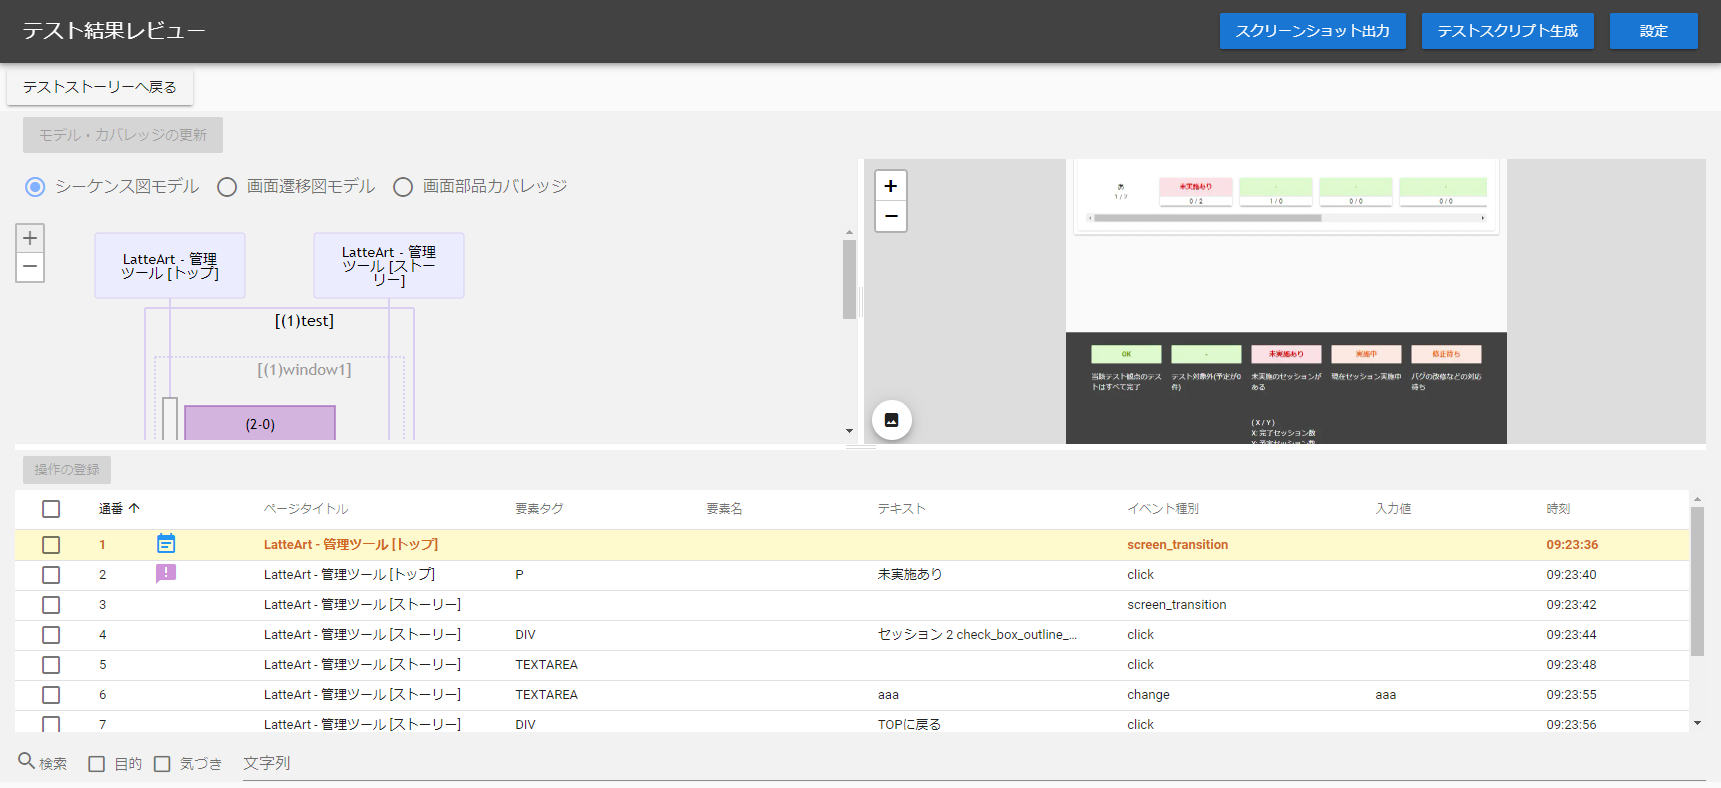
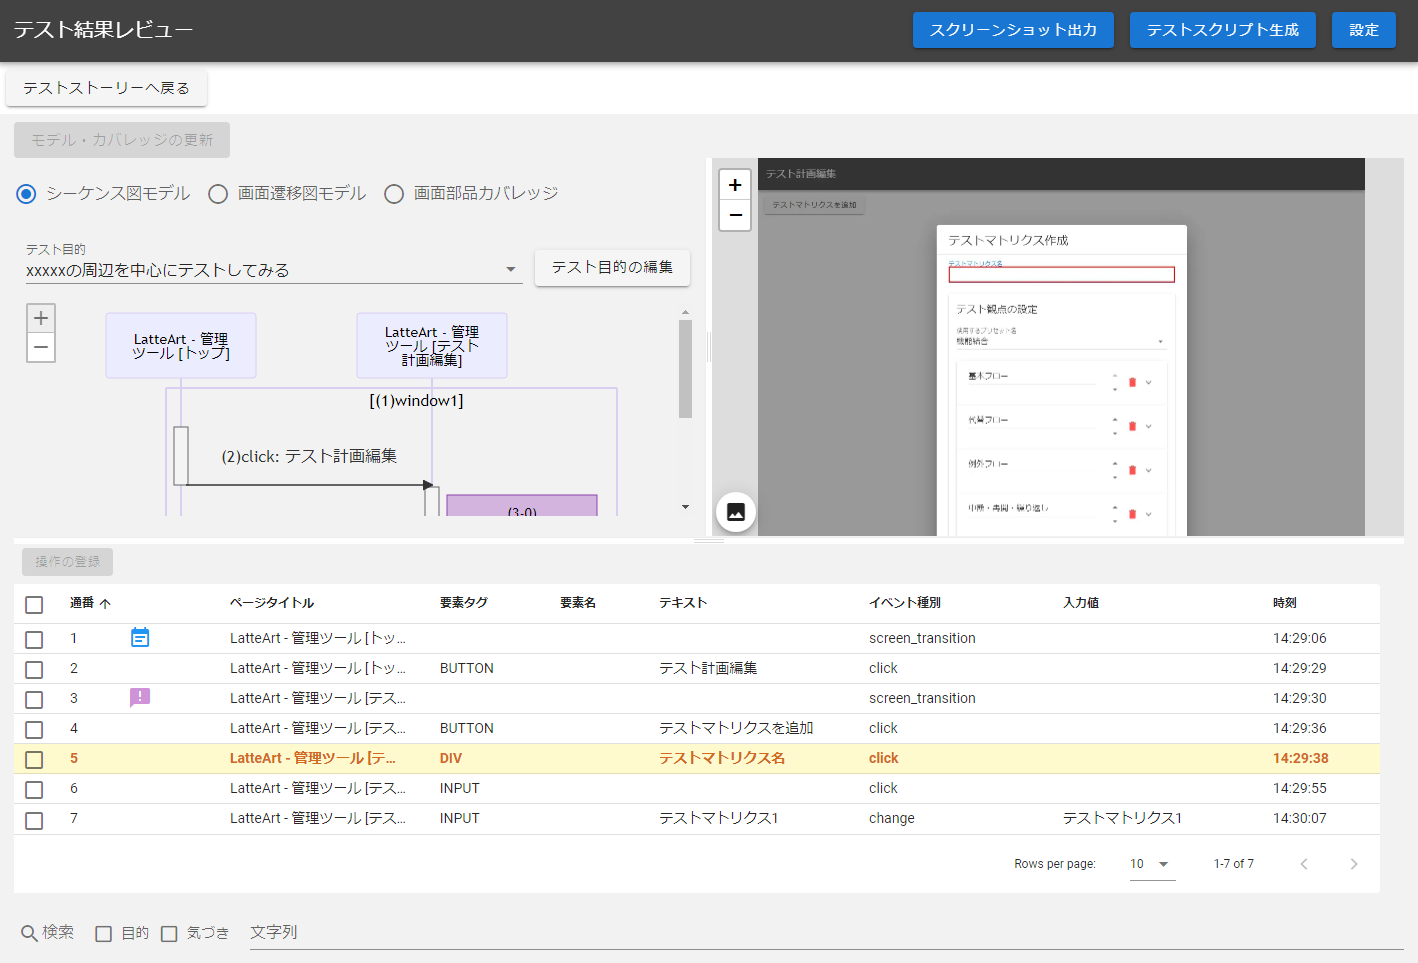
fix #740 append to documents

diff --git a/docs/manual/management/manual-management.md b/docs/manual/management/manual-management.md
@@ -325,6 +325,7 @@ OK ボタンを押下し、設定がインポートされます。
 <img src="images/review-button.png" />
 
 テスト結果が読み込まれたセッション群からレビュー対象のセッションを選択し、ボタンを押下すると「[レビュー画面](#レビュー画面)」が表示されます。
+複数のセッションを選択することで同時にレビューすることができます。
 
 ## セッション
 
@@ -418,6 +419,17 @@ OK ボタンを押下し、設定がインポートされます。
 
 「[記録ツールの履歴画面](/docs/manual/capture/manual-capture.md#履歴画面)」と同じようにシーケンス図モデルや画面遷移図モデルで確認ができます。  
 レビュー画面でも記録ツールのように操作履歴に対する編集は可能となっており、操作一覧の操作を右クリックすることで、気づきや目的を追加することができます。
+
+複数のセッションをレビュー対象として選択した場合は、以下のように表示されます。
+
+<img src="./images/multiple-session-review.png"/>
+
+- シーケンス図モデル
+  - シーケンス図上部の「テスト結果名」プルダウンリストで選択されたテスト結果について、シーケンス図や操作一覧が表示されます。
+- 画面遷移図モデル
+  - レビュー対象とした全てのセッションのテスト結果を統合した画面遷移図・入力値一覧が表示されます。
+- 画面部品カバレッジ
+  - レビュー対象とした全てのセッションのテスト結果を統合した画面部品カバレッジが表示されます。
 
 # 設定画面
 

diff --git a/docs/tutorial/capture/tutorial-capture.md b/docs/tutorial/capture/tutorial-capture.md
@@ -121,16 +121,16 @@ manage: http://127.0.0.1:3000?mode=manage&capture=http://127.0.0.1:3001&reposito
 
 - 「モデル・カバレッジの更新」下部のラジオボタンで「シーケンス図モデル」を選択します。
 
-実施したテストの大まかな流れと、残したメモの情報がシーケンス図で表示されます。
+テスト目的ごとに実施したテストの大まかな流れと、残したメモの情報がシーケンス図で表示されます。
 
 <div align="center">
 <img src="./images/sequence-diagram-model.png" width="620"/>
 </div><br>
 
-メモで記録した「テスト目的」はシーケンス図上に枠で表示されます。テキストにカーソルを合わせることで詳細を確認できます。
+シーケンス図で表示する「テスト目的」はシーケンス図の上のプルダウンリストから切り替えることができます。
 
 <div align="center">
-<img src="./images/sequence-intention.png" width="200"/> 
+<img src="./images/sequence-intention.png" width="620"/> 
 </div><br>
 
 メモで記録した「テスト中の気づき」はシーケンス図上に紫色の吹き出しで表示されます。カーソルを合わせることで詳細を確認できます。
